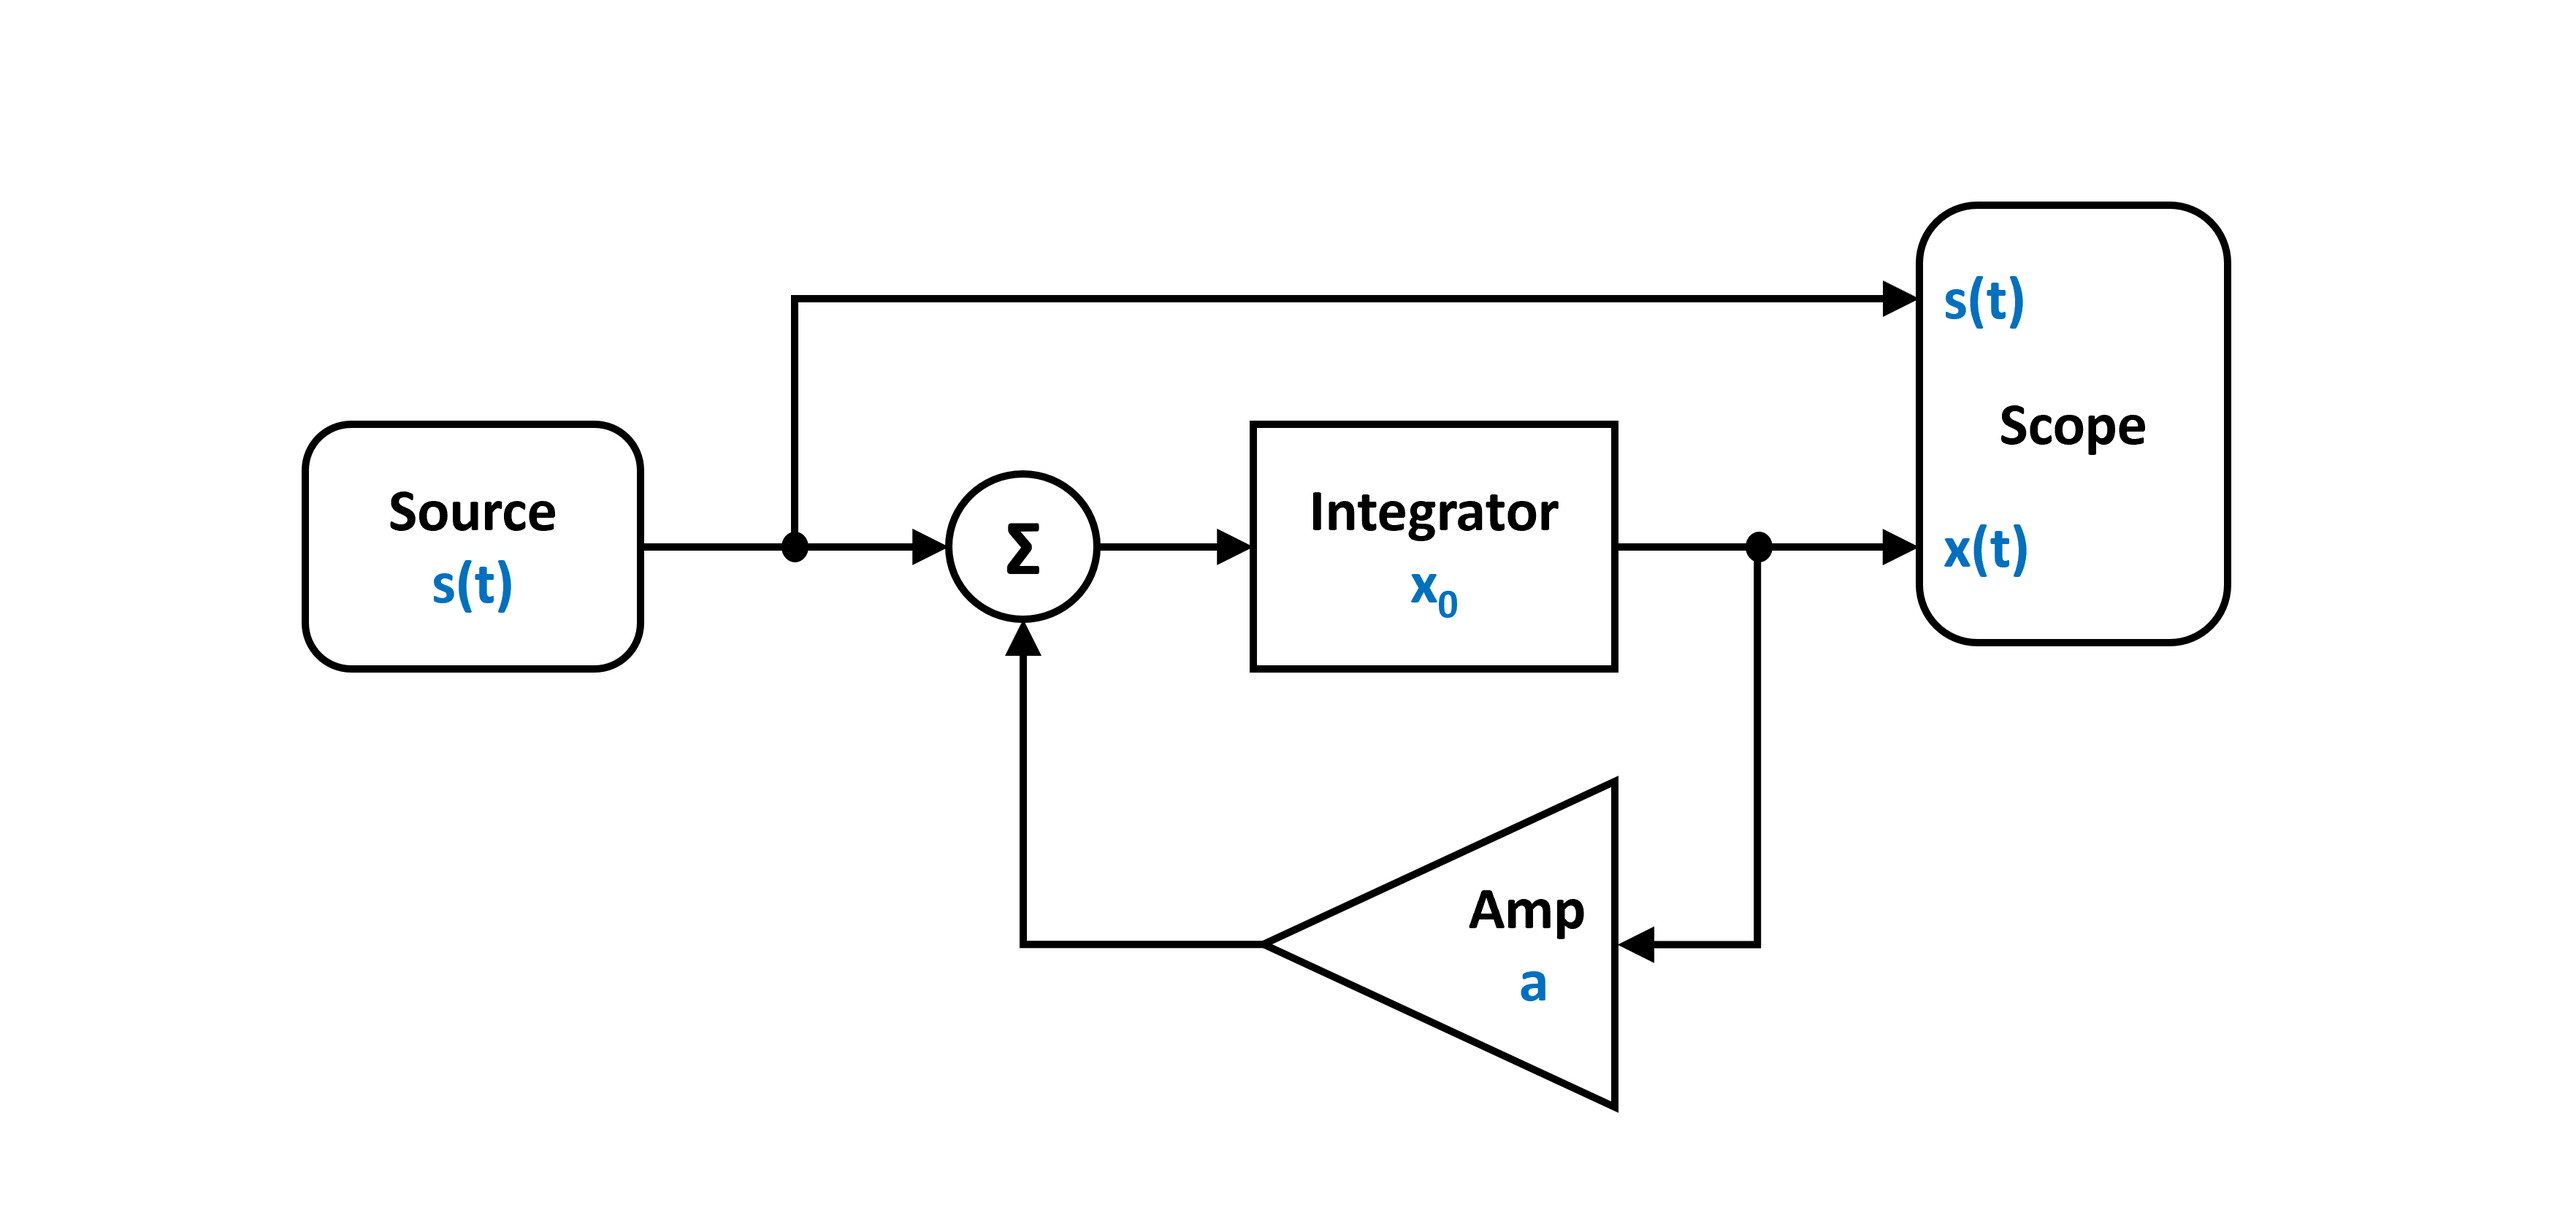
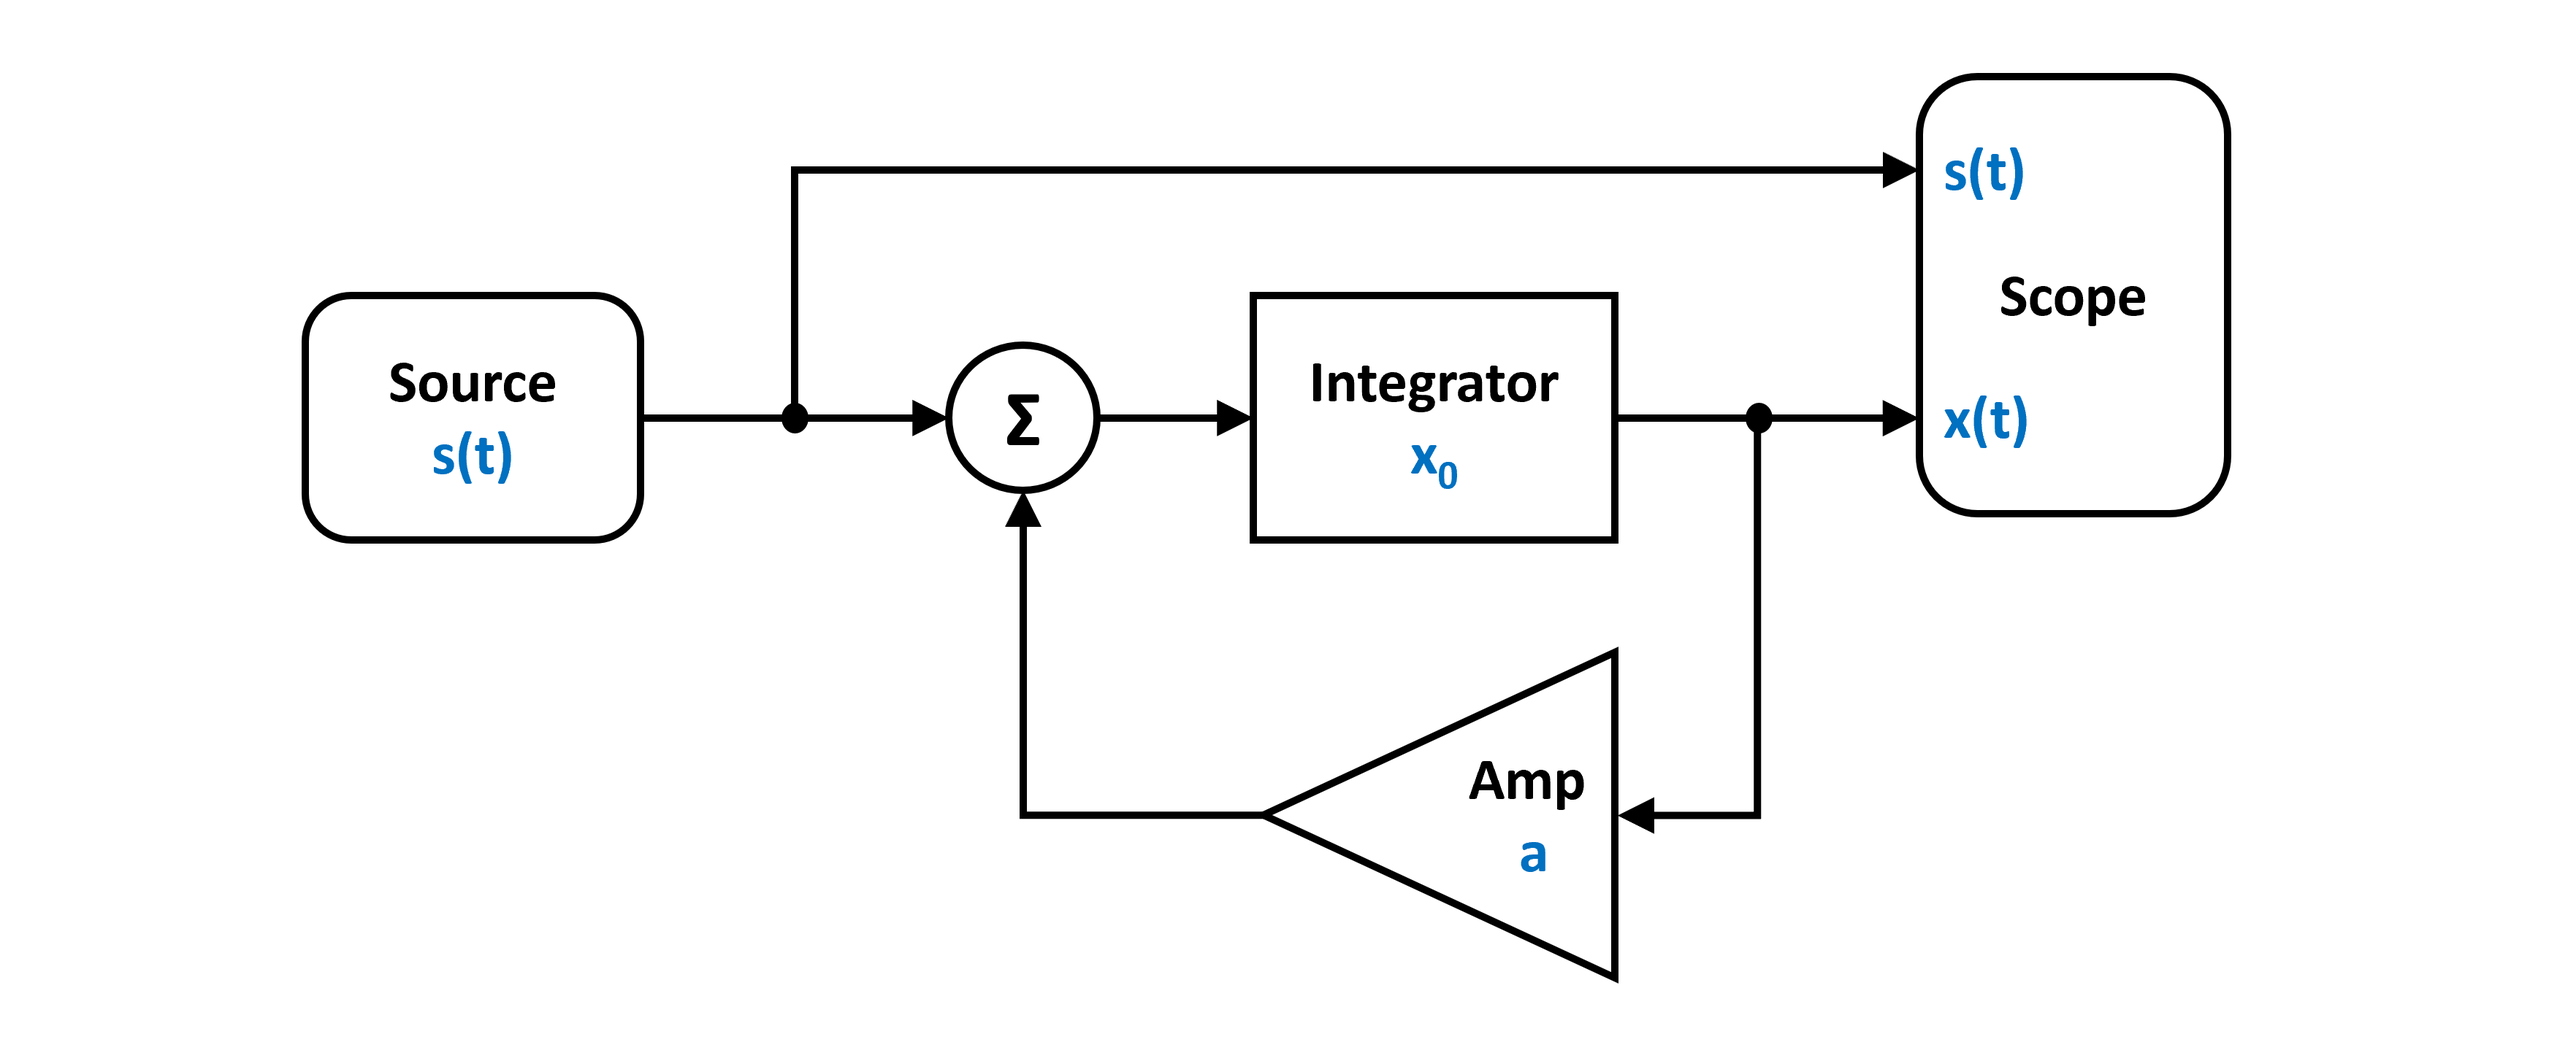
grey transparent figures for readme

diff --git a/README.md b/README.md
@@ -51,7 +51,7 @@ There are lots of [examples](https://github.com/milanofthe/pathsim/tree/master/e
 But first, lets have a look at how we can simulate the harmonic oscillator (a spring mass damper 2nd order system) using PathSim. The system and its corresponding equivalent block diagram are shown in the figure below:
 
 
-![png](https://raw.githubusercontent.com/milanofthe/pathsim/master/README_files/harmonic_oscillator.png)
+![png](https://raw.githubusercontent.com/milanofthe/pathsim/master/docs/examples/figures/harmonic_oscillator_g.png)
 
 
 The equation of motion that defines the harmonic oscillator it is give by
@@ -225,7 +225,7 @@ PathSim also includes a fully fledged automatic differentiation framework based 
 To demonstrate this lets consider the following linear feedback system and perform a sensitivity analysis on it with respect to some system parameters. 
 
 
-![png](https://raw.githubusercontent.com/milanofthe/pathsim/master/README_files/linear_feedback_blockdiagram.png)
+![png](https://raw.githubusercontent.com/milanofthe/pathsim/master/docs/examples/figures/linear_feedback_blockdiagram_g.png)
 
 
 The source term is a scaled unit step function (scaled by $b$). In this example, the parameters for the sensitivity analysis are the feedback term $a$, the initial condition $x_0$ and the amplitude of the source term $b$.
@@ -333,7 +333,7 @@ PathSim has an event handling system that monitors the simulation state and can 
 This enables the simulation of hybrid continuous time systems with discrete events. 
 
 
-![png](https://raw.githubusercontent.com/milanofthe/pathsim/master/README_files/bouncing_ball.png)
+![png](https://raw.githubusercontent.com/milanofthe/pathsim/master/docs/examples/figures/bouncing_ball_g.png)
 
 
 Probably the most popular example for this is the bouncing ball (see figure above) where discrete events occur whenever the ball touches the floor. The event in this case is a zero-crossing.
@@ -341,7 +341,7 @@ Probably the most popular example for this is the bouncing ball (see figure abov
 The dynamics of this system can be translated into a block diagramm in the following way:
 
 
-![png](https://raw.githubusercontent.com/milanofthe/pathsim/master/README_files/bouncing_ball_blockdiagram.png)
+![png](https://raw.githubusercontent.com/milanofthe/pathsim/master/docs/examples/figures/bouncing_ball_blockdiagram_g.png)
 
 
 And built and simulated with `PathSim` like this:
